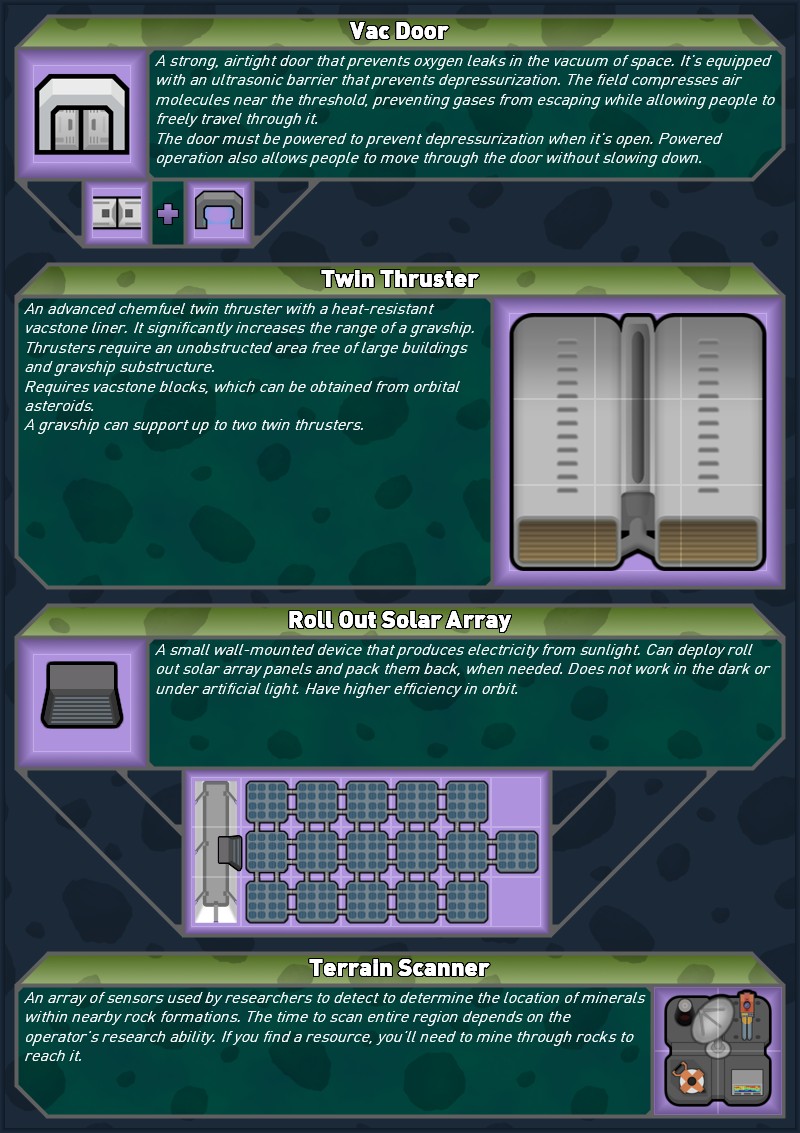
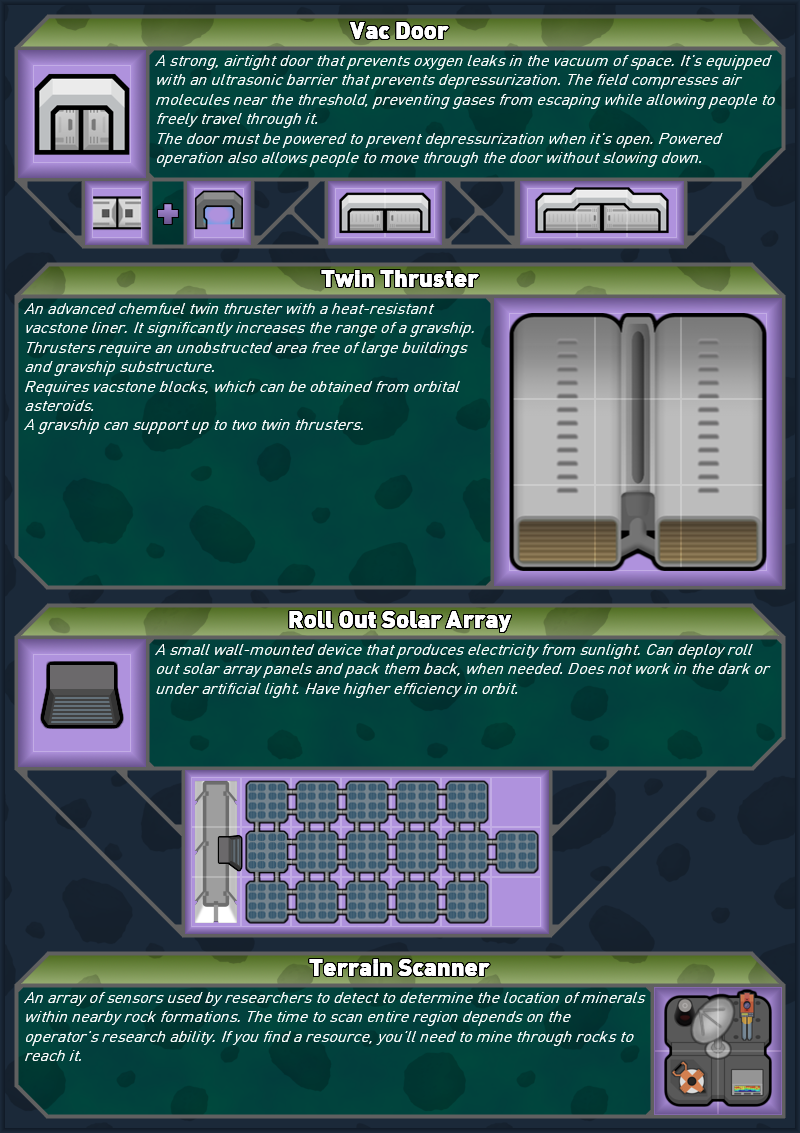
Updated Readme.

Changed region(s): [[0.3438, 0.1545, 0.9062, 0.2471], [0.9062, 0.1545, 0.9375, 0.1853]]

diff --git a/README.md b/README.md
@@ -13,6 +13,7 @@ This mod improve space-efficiency of things inside gravship and time consumption
 ### Vac Door
 
 Compact combination of vac barrier functionality and autodoor. Prevents oxygen leaks, when closed or powered. Prevents pen animals and prisoners from roaming around the ship and raiders from entering, like normal door.
+Includes version 1x1, 2x2 and 3x1.
 
 ### Twin Thruster
 
@@ -20,11 +21,11 @@ An advanced version of thruster unlocked with Advanced gravtech. Taking more spa
 
 ### Roll Out Solar Array
 
-Compact on-wall solar panel. Can be extended and retracted, when needed. Have higher efficiency in orbit (x1.4). Can be auto deployed upon landing. Scales produced power with amount of unobstructed roll out solar panels.
+Compact on-wall solar panel. Can be extended and retracted, when needed. Have higher efficiency in orbit (x1.4). Can enable automatic deployment upon landing. Scales produced power with amount of unobstructed roll out solar panels.
 
 ### Terrain scanner
 
-Allowing to scan current map rock formation to find ore veins inside. Which can speedup process of searching for ore within asteroids and mountainous maps. Combines digital ore map of ground-penetrating scanner and full surface mineral analysis of long-range mineral scanner.
+Allowing to scan current map rock formation to find ore veins inside. Which can speedup process of searching for ore within asteroids and mountainous maps. Combines digital ore map of ground-penetrating scanner and full surface mineral analysis of long-range mineral scanner. Can be minified.
 
 ## Links
 
